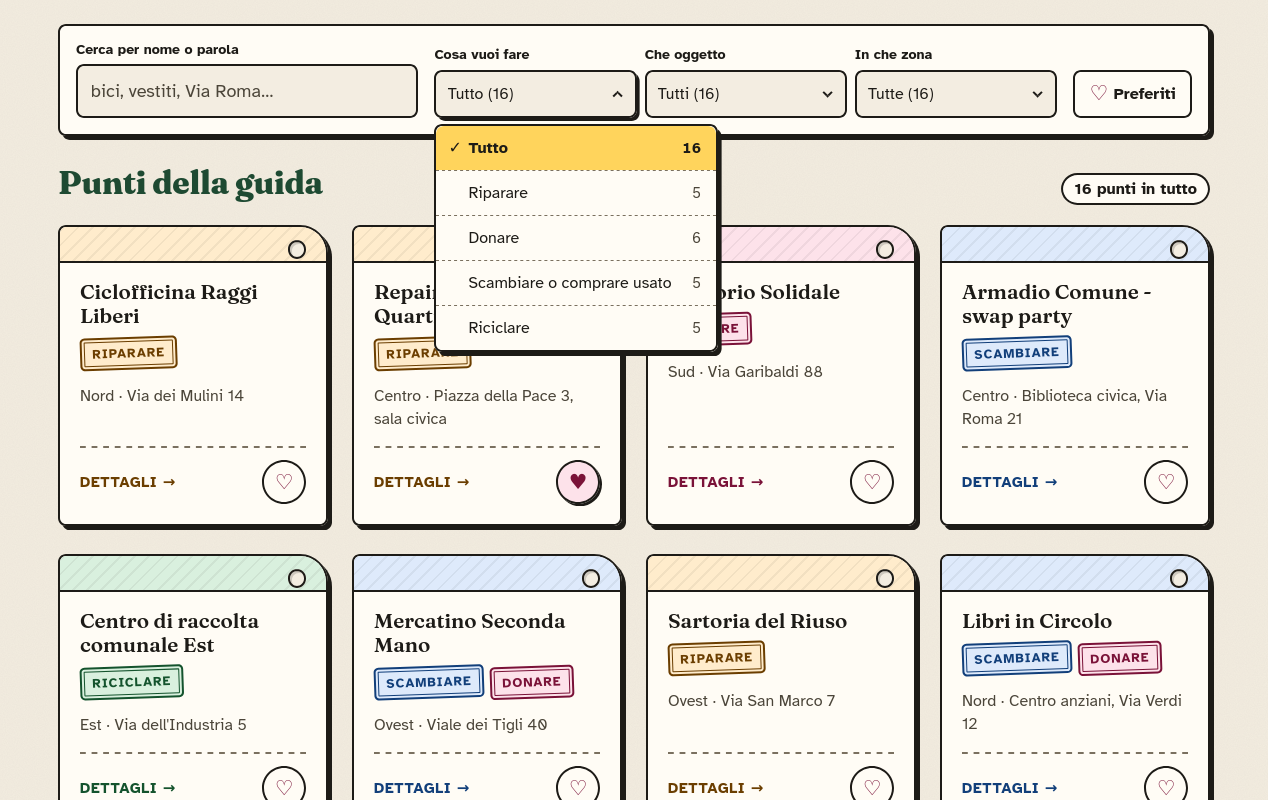
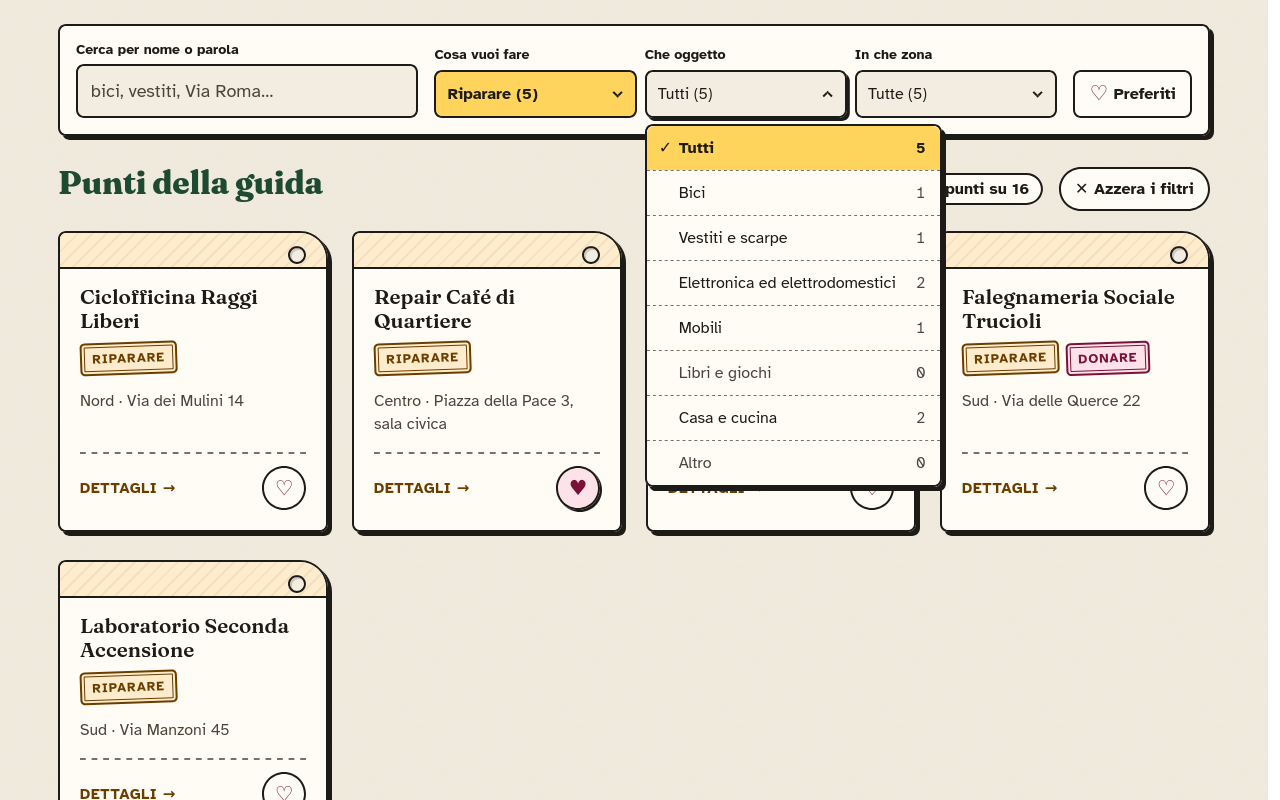
docs: screenshot del README con i menu a tendina aperti
Stessa scena su computer e telefono: "Riparare" scelto e il menu
"Che oggetto" aperto. Didascalie e testi alternativi aggiornati
(quello del telefono parlava ancora del bottone "Filtri").

diff --git a/README.md b/README.md
@@ -6,11 +6,11 @@ Una guida per i cittadini che vogliono dare una seconda vita agli oggetti invece
 
 Sito statico in **HTML, CSS e JavaScript "vanilla"**: nessun framework, nessun back end, nessun database.
 
-![La guida al riuso su computer: barra dei filtri in alto, schede dei punti sotto](docs/img/screenshot-guida.png)
+![La guida al riuso su computer: barra dei filtri in alto con il menu "Che oggetto" aperto, schede dei punti sotto](docs/img/screenshot-guida.png)
 
-Sul telefono la barra dei filtri occupa poche righe: ricerca a tutta larghezza, poi i tre menu a tendina e il filtro dei preferiti in fondo a destra.
+Sul telefono la barra dei filtri occupa poche righe: ricerca a tutta larghezza, poi i tre menu a tendina e il filtro dei preferiti in fondo a destra. Ogni menu apre un elenco di voci con il numero di punti che troverebbe.
 
-<img src="docs/img/screenshot-telefono.png" alt="La guida al riuso sul telefono: ricerca, bottone Filtri con un filtro attivo e numero di punti trovati" width="300">
+<img src="docs/img/screenshot-telefono.png" alt="La guida al riuso sul telefono: barra dei filtri con Riparare scelto e il menu Che oggetto aperto sull'elenco delle voci" width="300">
 
 ```
 docs/index.html            → la guida: ricerca, filtri ed elenco dei punti
